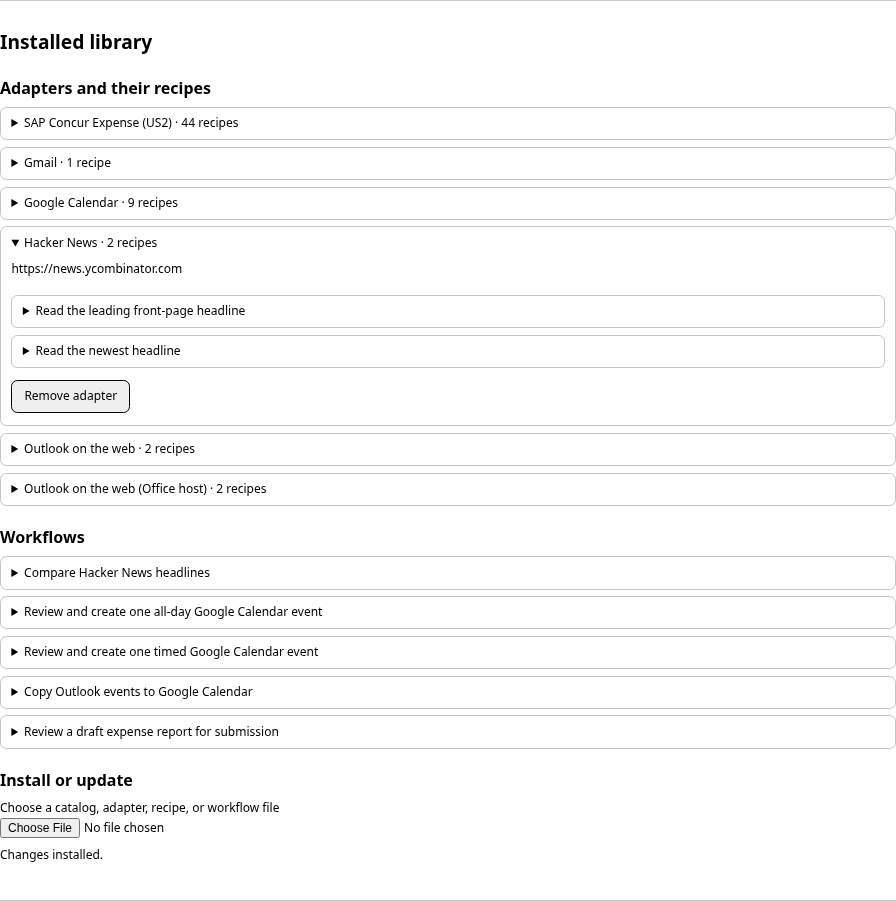
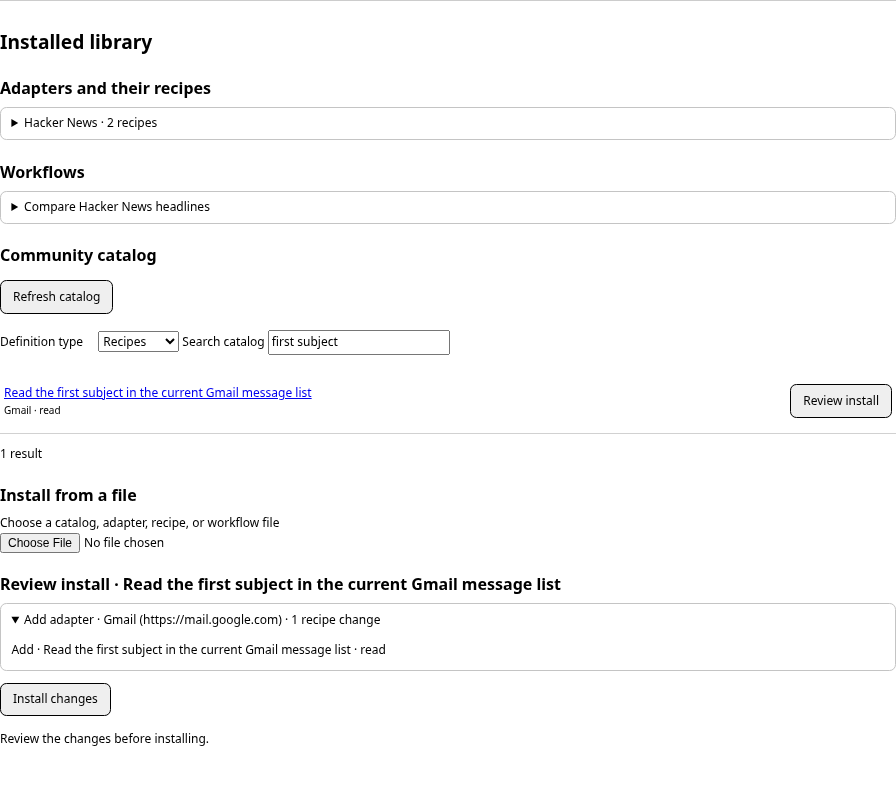
Browse and install community recipes, adapters, and workflow dependencies

diff --git a/extension/community.js b/extension/community.js
@@ -1,0 +1,101 @@
+import {roleAdapters, validateBundle} from './workflow.js';
+import {recipeContract} from './schema.js';
+
+const repo = 'open-horizon-labs/browser-recipes-catalog';
+export const communitySource = 'https://github.com/' + repo;
+export const catalogUrl = 'https://raw.githubusercontent.com/' + repo + '/main/distribution/catalog.json';
+
+export async function fetchCommunity() {
+  const response = await fetch(catalogUrl,{credentials:'omit',redirect:'error',cache:'no-cache',signal:AbortSignal.timeout(15000)});
+  if (!response.ok) throw new Error('The community catalog returned HTTP ' + response.status + '.');
+  return validateBundle(await response.json());
+}
+
+export function communityItems(catalog) {
+  const items = [];
+  for (const adapter of catalog.adapters) {
+    items.push({kind:'adapter', title:adapter.title, detail:adapter.origin + ' · ' + adapter.recipes.length + ' recipes',
+      path:'adapters/'+adapter.id, adapter});
+    for (const recipe of adapter.recipes) {
+      items.push({kind:'recipe',title:recipe.title, detail:adapter.title + ' · ' + recipeContract(recipe).effect,
+        path:'adapters/'+adapter.id+'/recipes/'+recipe.id+'.json', adapter,recipe});
+    }
+  }
+  for (const workflow of catalog.workflows) items.push({kind:'workflow',title:workflow.title,
+    detail:workflow.description || workflow.steps.length + ' steps',path:'workflows/'+workflow.id+'.json',workflow});
+  return items;
+}
+
+export function communitySelection(catalog,item) {
+  if (item.recipe) return {adapters:[{...item.adapter,recipes:[item.recipe]}], workflows:[]};
+  if (item.adapter) return {adapters:[item.adapter], workflows:[]};
+  const workflow = item.workflow;
+  const required = new Map();
+  for (const role of Object.values(workflow.tabs)) {
+    for (const id of roleAdapters(role)) required.set(id,new Set());
+  }
+  for (const step of workflow.steps.filter(s => s.op === 'recipe')) {
+    for (const id of roleAdapters(workflow.tabs[step.tab])) {
+      required.get(id).add(step.recipeId);
+      if (step.repeat?.verify) required.get(id).add(step.repeat.verify.recipeId);
+    }
+  }
+  return {workflows:[workflow],adapters:catalog.adapters.filter(a => required.has(a.id)).map(a =>
+    ({...a,recipes:a.recipes.filter(r => required.get(a.id).has(r.id))}))};
+}
+
+export function communityBrowser(onSelect, getLocal) {
+  const byId = id => document.getElementById(id);
+  const browse = byId('browse-community'), controls = byId('community-controls');
+  const search = byId('community-search'), kind = byId('community-kind');
+  const results = byId('community-results'), status = byId('community-status');
+  let catalog, items;
+  function render() {
+    results.replaceChildren();
+    const query = search.value.toLowerCase().trim();
+    const matches = items.filter(item => item.kind === kind.value &&
+      [item.title,item.detail,item.path].join(' ').toLowerCase().includes(query));
+    status.textContent = matches.length ? matches.length + (matches.length === 1 ? ' result' : ' results') : 'No matches. Try another search or definition type.';
+    for (const item of matches) {
+      const row = document.createElement('li'), text = document.createElement('div');
+      const source = document.createElement('a'), info = document.createElement('small');
+      source.href = communitySource + (item.kind === 'adapter' ? '/tree/main/' : '/blob/main/') + item.path;
+      source.target = '_blank'; source.rel = 'noreferrer'; source.textContent = item.title;
+      info.textContent = item.detail;
+      text.append(source,info);
+      const review = document.createElement('button');
+      review.type = 'button'; review.textContent = 'Review install';
+      review.setAttribute('aria-label','Review install of ' + item.title);
+      const selection = communitySelection(catalog,item);
+      const local = getLocal();
+      const identical = (a,b) => JSON.stringify(a) === JSON.stringify(b);
+      const installed = selection.adapters.every(({recipes,...metadata}) => {
+        const found = local.adapters.find(a => a.id === metadata.id);
+        if (!found) return false;
+        const {recipes: prior,...old} = found;
+        return identical(metadata,old) && recipes.every(r => identical(r,prior.find(p => p.id === r.id)));
+      }) && selection.workflows.every(w => identical(w,local.workflows.find(p => p.id === w.id)));
+      if (installed) {
+        review.disabled = true;
+        review.textContent = 'Installed';
+        review.setAttribute('aria-label',item.title + ' is installed');
+      }
+      review.onclick = () => onSelect(selection,item.title);
+      row.append(text,review); results.append(row);
+    }
+  }
+  browse.onclick = async () => {
+    browse.disabled = true; status.textContent = 'Loading the community catalog…';
+    try {
+      catalog = await fetchCommunity();
+      items = communityItems(catalog);
+      controls.hidden = false;
+      browse.textContent = 'Refresh catalog';
+      render();
+    } catch (error) {
+      status.textContent = 'Could not load the community catalog. ' + error.message + ' Try again or install from a file.';
+    } finally { browse.disabled = false; }
+  };
+  search.oninput = kind.onchange = render;
+  return () => { if (items) render(); };
+}

diff --git a/extension/library-ui.js b/extension/library-ui.js
@@ -1,3 +1,4 @@
+import {communityBrowser} from './community.js';
 import {bundled} from './settings.js';
 import {combined, localDefinitions, mergeDefinitions, removeDefinition, updateDefinitions} from './library.js';
 import {originPattern, recipeContract, validateCatalog} from './schema.js';
@@ -54,10 +55,10 @@ export async function initializeLibrary(refreshSettings) {
         const edits = [];
         for (const r of recipes) {
           const operation = difference(r,priorRecipes?.find(entry => entry.id === r.id));
-          if (operation) edits.push(element('li',operation + ' · ' + r.title));
+          if (operation) edits.push(element('li',operation + ' · ' + r.title + ' · ' + recipeContract(r).effect));
         }
         if (!change && !edits.length) continue;
-        const title = [change && change + ' adapter', a.title, edits.length && edits.length + (edits.length === 1 ? ' recipe change' : ' recipe changes')].filter(Boolean).join(' · ');
+        const title = [change && change + ' adapter', a.title + ' (' + a.origin + ')', edits.length && edits.length + (edits.length === 1 ? ' recipe change' : ' recipe changes')].filter(Boolean).join(' · ');
         if (edits.length) {
           const group = details(title);
           const rows = element('ul');
@@ -111,6 +112,7 @@ export async function initializeLibrary(refreshSettings) {
   async function render() {
     local = await localDefinitions(defaults);
     const all = combined(defaults,local);
+    refreshCommunity();
     const adapters = byId('adapter-list'), workflows = byId('workflow-list');
     adapters.replaceChildren(); workflows.replaceChildren();
     const selected = owner.value;
@@ -150,8 +152,21 @@ export async function initializeLibrary(refreshSettings) {
     }
     if (!all.workflows.length) workflows.append(element('p','No workflows installed.'));
   }
+  const heading = byId('install-heading');
+  const refreshCommunity = communityBrowser((selection,title) => {
+    if (save.disabled) return;
+    ++reading;
+    raw = selection;
+    file.value = '';
+    byId('owner-field').hidden = true;
+    heading.textContent = 'Review install · ' + title;
+    heading.hidden = false;
+    review();
+    heading.focus();
+  }, () => local);
   owner.onchange = review;
   file.onchange = async () => {
+    heading.hidden = true;
     const ticket = ++reading;
     raw = undefined;
     preview.replaceChildren(); save.hidden = true;
@@ -177,6 +192,7 @@ export async function initializeLibrary(refreshSettings) {
       await commit(before => checked(before).next);
       raw = undefined; file.value = ''; preview.replaceChildren(); save.hidden = true;
       byId('owner-field').hidden = true;
+      heading.hidden = true;
       status.textContent = 'Changes installed.';
     } catch (e) { status.textContent = e.message; }
     finally { save.disabled = file.disabled = owner.disabled = false; }

diff --git a/extension/options.html b/extension/options.html
@@ -16,10 +16,22 @@
         <div id="adapter-list"></div>
         <h3>Workflows</h3>
         <div id="workflow-list"></div>
-        <h3>Install or update</h3>
+        <h3>Community catalog</h3>
+        <button type="button" id="browse-community">Browse community catalog</button>
+        <div id="community-controls" hidden>
+          <label for="community-kind">Definition type</label>
+          <select id="community-kind">
+            <option value="workflow">Workflows</option><option value="adapter">Adapters</option><option value="recipe">Recipes</option>
+          </select>
+          <label>Search catalog <input type="search" id="community-search"></label>
+          <ul id="community-results"></ul>
+        </div>
+        <p id="community-status" role="status"></p>
+        <h3>Install from a file</h3>
         <label for="catalog-file">Choose a catalog, adapter, recipe, or workflow file</label>
         <input id="catalog-file" type="file" accept=".json,application/json">
         <label id="owner-field" hidden>Adapter for this recipe <select id="recipe-owner"></select></label>
+        <h3 id="install-heading" tabindex="-1" hidden></h3>
         <div id="preview"></div>
         <button type="button" id="save" hidden>Install changes</button>
         <p id="library-status" role="status"></p>

diff --git a/tests/community.test.js b/tests/community.test.js
@@ -1,0 +1,18 @@
+import test from 'node:test';
+import assert from 'node:assert/strict';
+import {communitySelection} from '../extension/community.js';
+
+test('workflow selection includes verification recipes on every supported host', () => {
+  const adapters = ['primary','alternate','unrelated'].map(id => ({
+    id,recipes:['save','verify','unrelated'].map(id => ({id})),
+  }));
+  const workflow = {
+    tabs:{app:{adapterId:'primary',alternatives:['alternate']}},
+    steps:[{op:'recipe',tab:'app',recipeId:'save',repeat:{verify:{recipeId:'verify'}}}],
+  };
+  const bundle = communitySelection({adapters,workflows:[workflow]},{workflow});
+  assert.deepEqual(bundle.adapters.map(a => [a.id,...a.recipes.map(r => r.id)]),[
+    ['primary','save','verify'],['alternate','save','verify'],
+  ]);
+  assert.deepEqual(bundle.workflows,[workflow]);
+});

diff --git a/extension/options.css b/extension/options.css
@@ -36,3 +36,11 @@ li, .actions { display: flex; align-items: center; flex-wrap: wrap; justify-cont
 #library button { margin-block: .35rem; }
 #owner-field { display: block; }
 #library [hidden] { display: none; }
+
+#community-controls { margin-block: .7rem; }
+#community-controls label { display: inline-block; margin: 0 .75rem .4rem 0; }
+#community-results { max-height: 22rem; overflow: auto; }
+#community-results li { border-block-end: 1px solid color-mix(in srgb, CanvasText 18%, Canvas); padding: .6rem .25rem; }
+#community-results li div { flex: 1 1 16rem; }
+#community-results small { display: block; overflow-wrap: anywhere; }
+#community-controls input, #community-controls select { max-width: 100%; font: inherit; }

diff --git a/docs/getting-started.md b/docs/getting-started.md
@@ -8,18 +8,16 @@ Read the first subject in Gmail from the Browser Recipes side panel. The Gmail t
 
 You need Git, Node.js 22.13 or later, npm, and a Chromium-based desktop browser that allows unpacked extensions. Once the extension and catalog are installed, running recipes from the browser takes no terminal, native host, or ChatGPT account. Chrome remote debugging can stay disabled.
 
-Open a terminal in a directory where you can keep both projects. These commands use a POSIX shell (on Windows, use Git Bash).
+Open a terminal in a directory where you can keep the extension. These commands use a POSIX shell (on Windows, use Git Bash).
 
 ```sh
 git clone https://github.com/open-horizon-labs/browser-recipes
-git clone https://github.com/open-horizon-labs/browser-recipes-catalog
 cd browser-recipes
 npm ci
 npm run build
-node ../browser-recipes-catalog/scripts/pack.mjs > ../browser-recipes-catalog.json
 ```
 
-The build creates the extension in `dist`. The last command combines the catalog’s adapters, recipes and workflows into the file you’ll import.
+The build creates the extension in `dist`.
 
 1. In the browser profile where you use Gmail, open `chrome://extensions`.
 2. Turn on **Developer mode**, choose **Load unpacked**, and select the **dist** folder inside **browser-recipes**. You should see a **Browser Recipes** extension card.
@@ -28,9 +26,9 @@ The build creates the extension in `dist`. The last command combines the catalog
 ## Load the catalog and grant one site
 
 1. Open **Browser Recipes** from the toolbar and select **Settings** in the runner.
-2. Under **Installed library**, choose the packed file. Review which adapters, recipes, and workflows it adds or updates, then choose **Install changes**. Open an adapter to see its recipes or a workflow to see the recipes each step calls. Private definitions with other IDs stay installed. To update one recipe, choose its file and select its adapter. To uninstall a definition, expand it and choose **Remove**. If a workflow still uses it, Settings names the workflow to update first.
+2. Under **Installed library**, choose **Browse community catalog**. Select **Recipes** and search for **first subject**. Choose **Review install** for the Gmail recipe, check its site and the proposed changes, then choose **Install changes**. A recipe includes its adapter. A workflow includes the adapters and recipes its steps call. Choose **Adapters** to install an app with all its community recipes. You can still use **Install from a file** for private definitions.
 
-![Installed library listing adapters and workflows](images/getting-started/load-catalog.png)
+![Community catalog search for the first Gmail subject, with the adapter and recipe shown in the install preview](images/getting-started/load-catalog.png)
 
 3. Under **Site access**, find **Gmail** and click **Grant access**. If you’re using the public example, choose **Hacker News** instead. Check the domain in the browser prompt, then click **Allow**. The button for that site changes to **Revoke access**.
 
